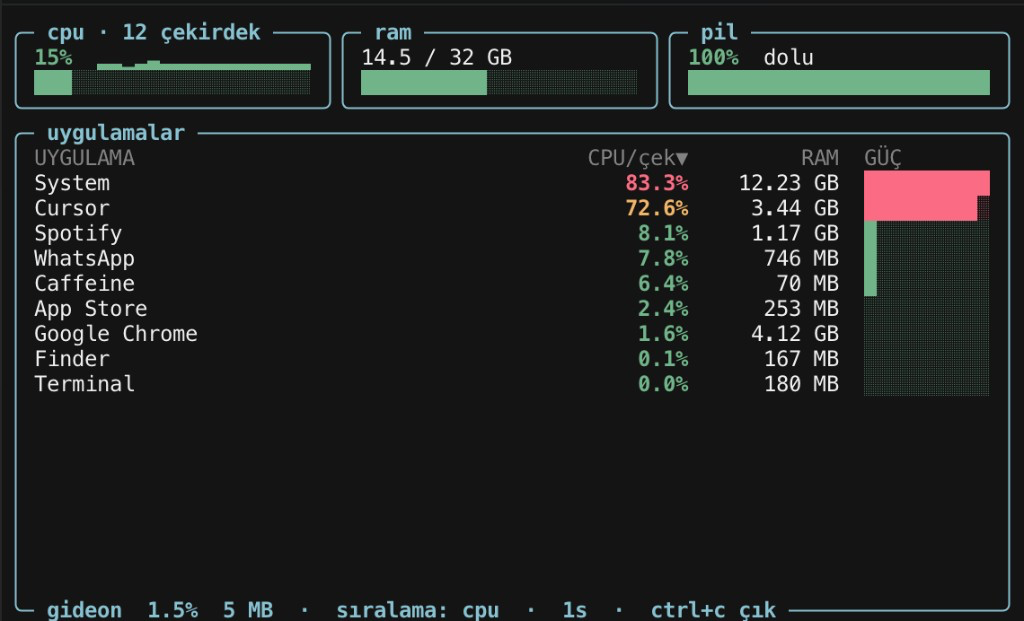
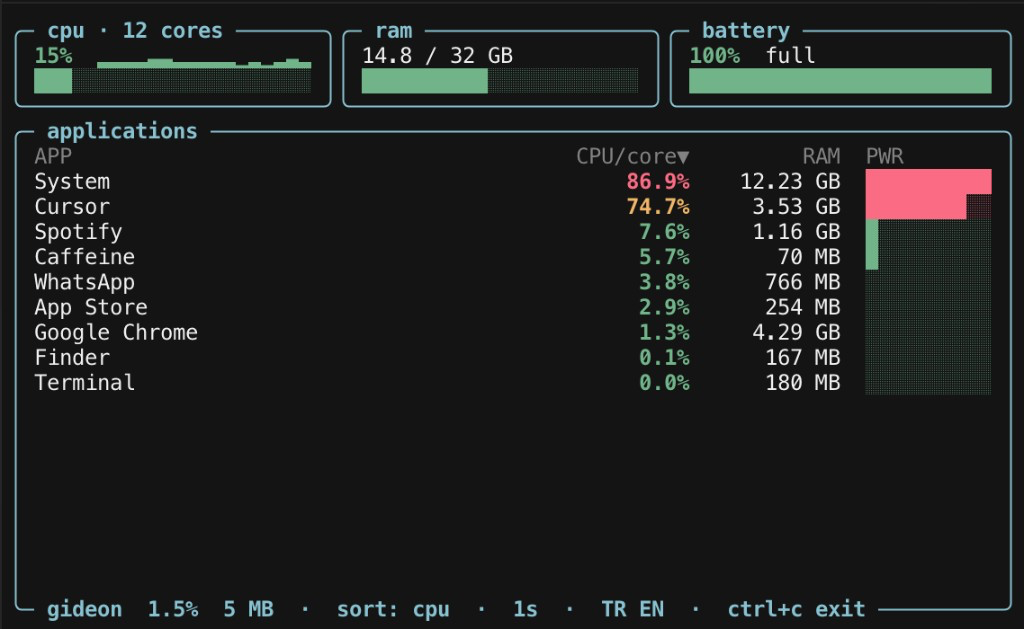
Simplify the README to English and add a single language footer toggle.
Drop the dual-language tabbed docs, pin the 15:54 English UI screenshot under the title, and switch the TUI from TR/EN twin labels to Language: EN / Dil: TR.

Changed region(s): [[0.0, 0.0306, 1.0, 1.0], [0.0, 0.9485, 0.2812, 1.0], [0.3125, 0.9485, 0.5312, 1.0]]

diff --git a/README.md b/README.md
@@ -1,40 +1,23 @@
 # Gideon
 
 <p align="center">
-  <a href="#english"><img src="https://img.shields.io/badge/English-0ea5e9?style=for-the-badge&labelColor=0ea5e9&color=0ea5e9" alt="English"></a>
-  <a href="#turkce"><img src="https://img.shields.io/badge/Türkçe-1e293b?style=for-the-badge&labelColor=1e293b&color=334155" alt="Türkçe"></a>
-</p>
-
-<p align="center">
   <img src="docs/screenshot.png" alt="Gideon" width="900">
 </p>
 
-<p align="center">Hobby <a href="https://github.com/aristocratos/bpytop">bpytop</a>-style macOS app monitor for CPU, RAM, and battery.<br>Created by <strong>Bora Ata Türkoğlu</strong>.</p>
+Hobby [bpytop](https://github.com/aristocratos/bpytop)-style macOS app monitor for CPU, RAM, and battery.
 
----
+**Created by Bora Ata Türkoğlu.**
 
-<a id="english"></a>
-## English
+`gideon` switches your terminal to an alternate screen. Ctrl+C restores it. No sudo, no extra Homebrew packages — only stock macOS `zsh`, `ps`, `vm_stat`, `sysctl`, and `pmset`.
 
-<p>
-  <a href="#english"><img src="https://img.shields.io/badge/English-0ea5e9?style=for-the-badge" alt="English"></a>
-  <a href="#turkce"><img src="https://img.shields.io/badge/Türkçe-1e293b?style=for-the-badge&labelColor=1e293b&color=334155" alt="Türkçe"></a>
-</p>
-
-**gideon-monitor** — a terminal UI that lists the apps you actually opened, not dozens of macOS daemons.
-
-> A hobby / example project by **Bora Ata Türkoğlu**. Fun first, still useful in a real terminal.
-
-Type `gideon` and the terminal switches to an alternate screen. Ctrl+C restores it. No sudo, no extra Homebrew packages — only stock macOS `zsh`, `ps`, `vm_stat`, `sysctl`, and `pmset`.
-
-### Requirements
+## Requirements
 
 - **macOS**
 - **zsh** (comes with the system)
 - **Homebrew** optional: only used to symlink `gideon` onto your PATH
 - **No sudo**
 
-### Install
+## Install
 
 ```bash
 git clone https://github.com/boracomet/gideon-monitor.git
@@ -45,30 +28,30 @@ gideon
 
 `install.sh` makes `gideon` executable and symlinks it into Homebrew `bin` (on Apple Silicon usually `/opt/homebrew/bin/gideon`). Without brew, run `./gideon` from the repo.
 
-### Usage
+## Usage
 
 | What | How |
 | --- | --- |
 | Quit | **Ctrl+C** |
-| Sort | Click the top **cpu** / **ram** panel, or the table **CPU** / **RAM** headers (`▼` on the active column) |
+| Sort | Click the top **cpu** / **ram** panel, the table headers, or **sort: cpu** in the footer (`▼` on the active column) |
 | Refresh interval | Click **1s** in the footer: `1s` → `5s` → `30s` → `1 min` → `1s` |
-| Language | Click **TR** or **EN** in the footer (default is Turkish) |
+| Language | Click **Language: EN** in the footer to switch to Turkish (`Dil: TR`); click again to return to English |
 | Battery colors | green ≥ 60% · yellow 25–59% · red < 25% (full is green) |
 | Charging | Label **charging on** while the adapter is charging |
 
-#### What CPU means
+### What CPU means
 
 - **Top panel (`cpu · N cores`)** — all cores together, **0–100%**. Process CPU sum / logical CPU count.
 - **Table (`CPU/core`)** — `ps` **per-core** `%CPU` (one app can exceed 100% if it uses several cores). This is *not* rescaled to the top-panel total.
 
-#### Apps vs System
+### Apps vs System
 
 The list is the programs you launched; invisible macOS plumbing is one **System** row.
 
 - **Own row:** `.app` bundles under `/Applications`, `~/Applications`, `/System/Applications`; **Finder** always. Helpers (`Google Chrome Helper` → Chrome) roll into the parent app.
 - **`System`:** `kernel_task`, `launchd`, WindowServer, `/usr/libexec` / `/System/Library` daemons, Dock / Control Center and other CoreServices tools (except Finder).
 
-### How it works
+## How it works
 
 Data is collected on the chosen interval, processes are classified, and the screen is redrawn with ANSI colors.
 
@@ -96,7 +79,7 @@ flowchart TD
 
 The power column is not real watts (`powermetrics` needs root). It is a relative, CPU-weighted score with a small RAM share. The **battery** panel is real `pmset` status.
 
-### Update
+## Update
 
 Install is a **symlink**, so `git pull` in the repo is enough; no reinstall if `gideon` is already on your PATH.
 
@@ -111,100 +94,6 @@ If the symlink is missing:
 ./install.sh
 ```
 
-### License
+## License
 
 No formal license file — personal hobby / example project. Fork it, break it, fix it.
-
----
-
-<a id="turkce"></a>
-## Türkçe
-
-<p>
-  <a href="#english"><img src="https://img.shields.io/badge/English-1e293b?style=for-the-badge&labelColor=1e293b&color=334155" alt="English"></a>
-  <a href="#turkce"><img src="https://img.shields.io/badge/Türkçe-0ea5e9?style=for-the-badge" alt="Türkçe"></a>
-</p>
-
-**gideon-monitor** — bpytop-tarzı macOS uygulama monitörü (CPU, RAM, güç, pil).
-
-> Eğlence amaçlı örnek proje — **Bora Ata Türkoğlu** tarafından oluşturuldu.
-
-`gideon` yazınca terminal alternatif ekrana geçer; Ctrl+C ile eski haline döner. Sudo yok, ekstra Homebrew paketi yok — sadece macOS’ta duran `zsh`, `ps`, `vm_stat`, `sysctl` ve `pmset`.
-
-### Gereksinimler
-
-- **macOS**
-- **zsh** (sistemle gelir)
-- **Homebrew** isteğe bağlı: PATH’e symlink için. Çalıştırmak için brew paketi gerekmez.
-- **sudo yok**
-
-### Kurulum
-
-```bash
-git clone https://github.com/boracomet/gideon-monitor.git
-cd gideon-monitor
-./install.sh
-gideon
-```
-
-`install.sh` `gideon` dosyasını çalıştırılabilir yapıp Homebrew `bin` altına symlink atar (Apple Silicon’da genelde `/opt/homebrew/bin/gideon`). Brew yoksa `./gideon` ile çalıştır.
-
-### Kullanım
-
-| Ne | Nasıl |
-| --- | --- |
-| Çıkış | **Ctrl+C** |
-| Sıralama | Üstteki **cpu** / **ram** paneline veya tablo başlıklarına tıkla (aktif sütunda `▼`) |
-| Yenileme aralığı | Alttaki **1s** yazısına tıkla: `1s` → `5s` → `30s` → `1 dk` → `1s` |
-| Dil | Alttaki **TR** / **EN** (varsayılan Türkçe) |
-| Pil renkleri | yeşil ≥ 60 · sarı 25–59 · kırmızı < 25 (dolu yeşil) |
-| Şarj | Adaptör şarj ederken etiket **şarj etkin** |
-
-#### CPU ne anlama geliyor?
-
-- **Üst panel (`cpu · N çekirdek`)** — tüm çekirdekler birlikte, **0–100%**. Süreç CPU toplamı / mantıksal çekirdek sayısı.
-- **Tablo (`CPU/çek`)** — `ps`’in verdiği **çekirdek başı** `%CPU` (bir uygulama birden fazla çekirdeği doldurursa 100’ü aşabilir). Üst panelle aynı ölçek değildir.
-
-#### Uygulamalar vs System
-
-Listede senin açtığın programlar durur; Mac’in görünmez altyapısı tek **Sistem** satırında toplanır.
-
-- **Ayrı satır:** `/Applications`, `~/Applications`, `/System/Applications` altındaki `.app`’ler; **Finder** her zaman kendi satırında. Helper süreçler (`Google Chrome Helper` → Chrome) üst uygulamaya eklenir.
-- **`Sistem`:** `kernel_task`, `launchd`, WindowServer, `/usr/libexec` / `/System/Library` daemon’ları, Dock / Control Center gibi CoreServices araçları (Finder hariç).
-
-### Nasıl çalışır
-
-Seçilen aralıkta veri toplanır, süreçler sınıflanır, ekran ANSI ile yeniden çizilir.
-
-```mermaid
-flowchart TD
-  start[gideon başlat] --> alt[alternatif ekran + imleci gizle]
-  alt --> loop[aralık kadar bekle]
-  loop --> collect["ps · vm_stat · pmset"]
-  collect --> group[awk: uygulama veya System]
-  group --> draw[ANSI renkli paneller]
-  draw --> wait{Ctrl+C?}
-  wait -->|hayır| loop
-  wait -->|evet| restore[imleç ve ekranı geri yükle]
-```
-
-Güç sütunu gerçek watt değildir (`powermetrics` root ister). CPU ağırlıklı, küçük RAM katkılı göreli bir skor; üstteki **pil** paneli `pmset` ile gerçek batarya durumudur.
-
-### Güncelleme
-
-Kurulum bir **symlink** olduğu için kaynak dizinde `git pull` yeter; `gideon` PATH’teyse yeniden kurmana gerek yok.
-
-```bash
-cd gideon-monitor
-git pull
-```
-
-Symlink koptuysa:
-
-```bash
-./install.sh
-```
-
-### Lisans
-
-Resmi bir lisans dosyası yok — kişisel eğlence / örnek proje. Fork’la, oyna, boz, düzelt.
